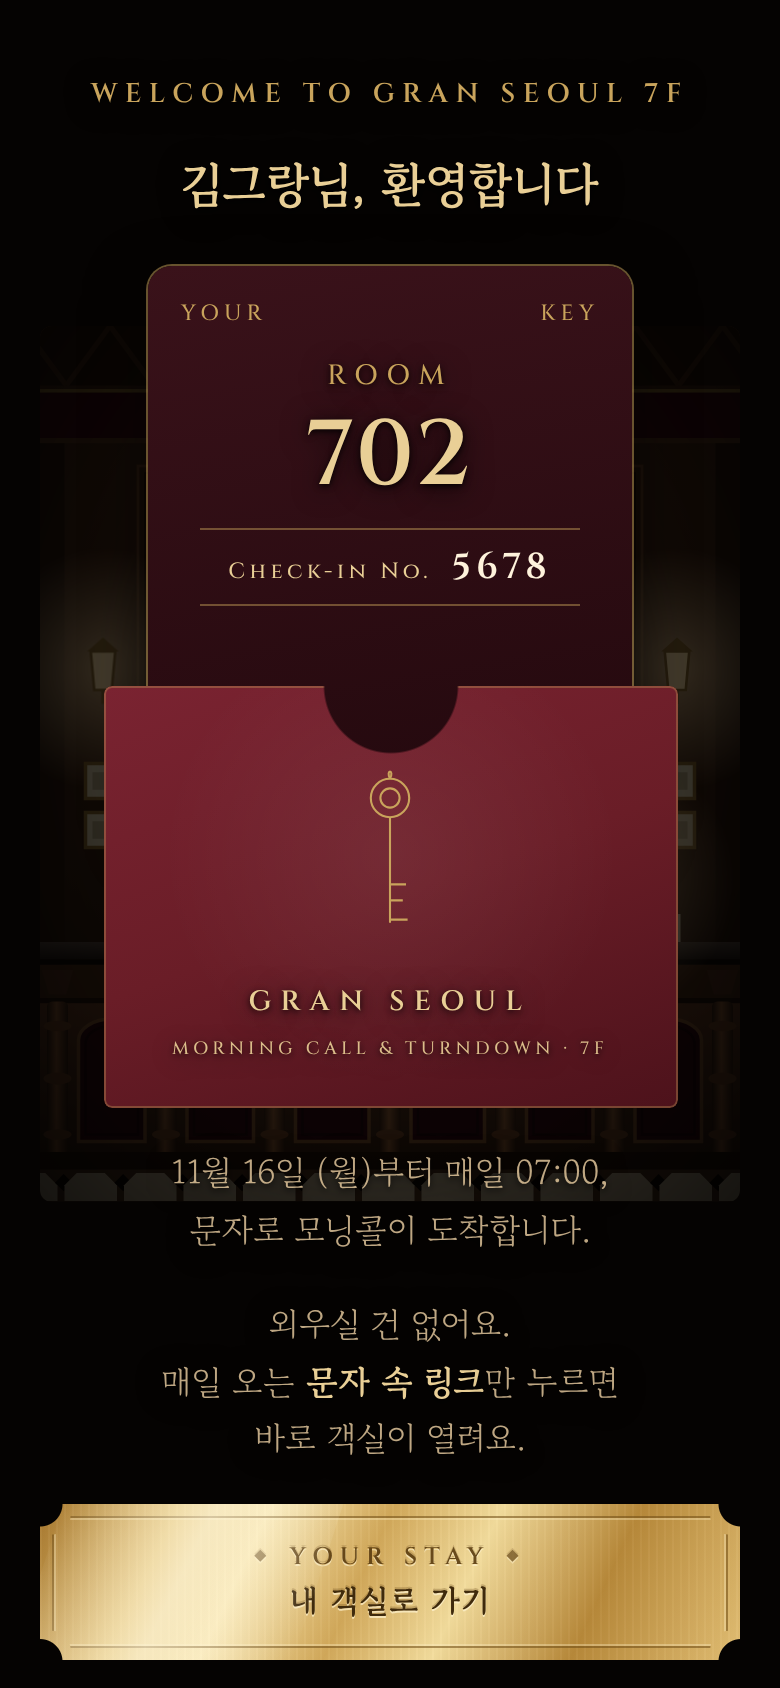
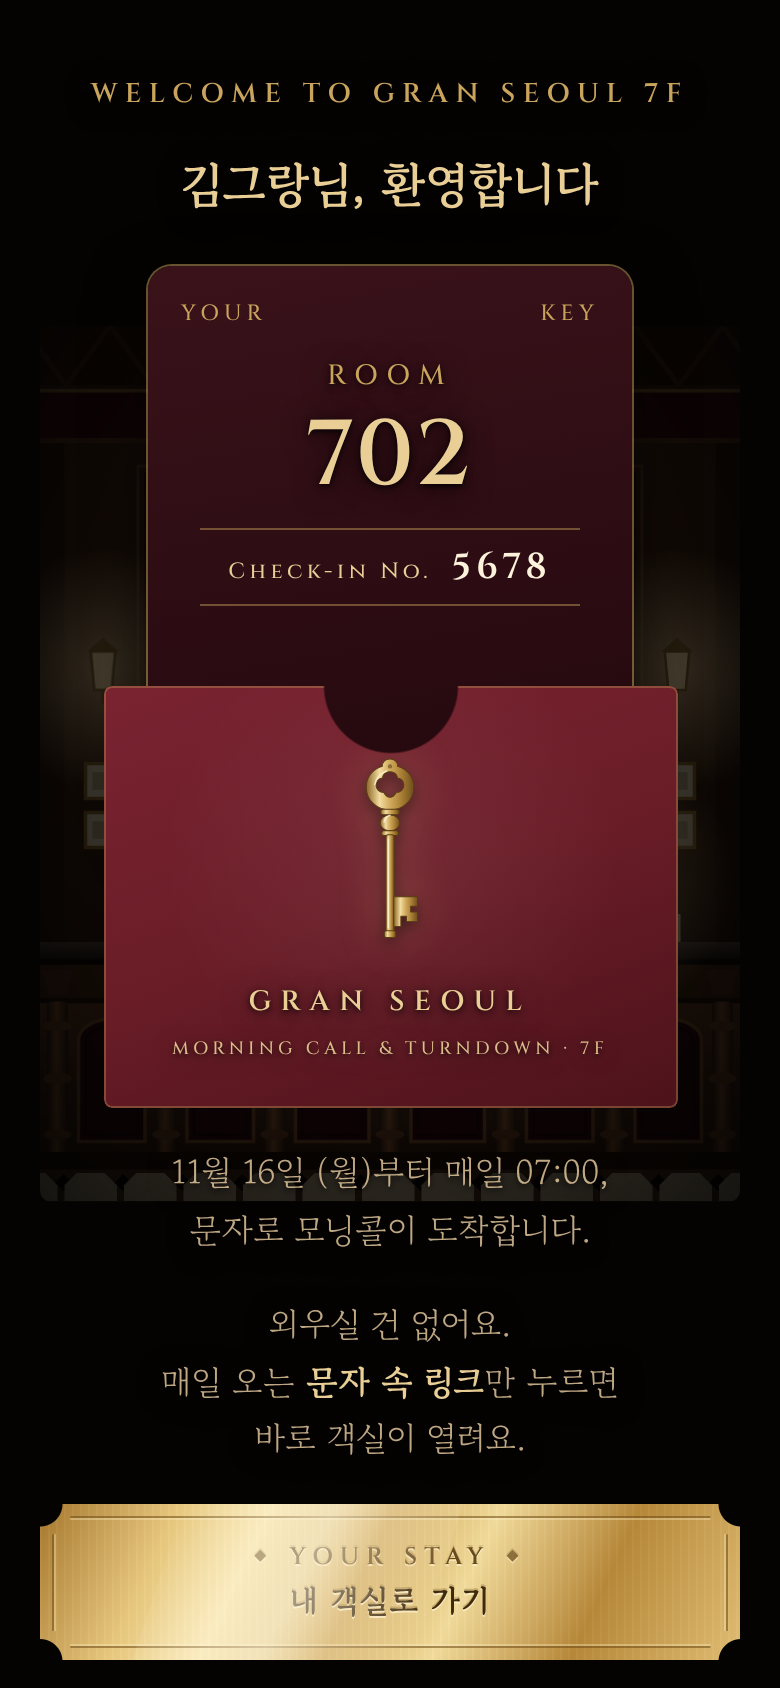
Key card sleeve: detailed brass skeleton key
Claude-Session: https://claude.ai/code/session_011z6wvs2Gb5um8vyCmLK585

Changed region(s): [[0.0615, 0.8934, 0.3077, 0.9858], [0.3077, 0.8934, 0.5538, 0.9858], [0.4615, 0.4313, 0.5538, 0.5545]]

diff --git a/index.html b/index.html
@@ -241,7 +241,7 @@ input:focus,select:focus{outline:none;border-bottom:2px solid var(--burgundy)}
   box-shadow:0 14px 34px rgba(0,0,0,.55),inset 0 0 0 1px rgba(201,164,92,.35);
   -webkit-mask:radial-gradient(circle 34px at 50% 0,transparent 33px,#000 34px);mask:radial-gradient(circle 34px at 50% 0,transparent 33px,#000 34px);
   display:flex;flex-direction:column;align-items:center;justify-content:flex-end;padding:0 0 22px}
-.sleeve svg{width:44px;height:96px;stroke:var(--brass);fill:none;stroke-width:1.3;margin-bottom:10px}
+.sleeve svg{width:46px;height:102px;margin-bottom:10px;overflow:visible;filter:drop-shadow(0 3px 4px rgba(0,0,0,.45)) drop-shadow(0 0 10px rgba(255,210,140,.25))}
 .sleeve .brand{font-family:var(--en);letter-spacing:.34em;font-size:14px;font-weight:600}
 .sleeve .tagline{font-family:var(--en);letter-spacing:.24em;font-size:9px;opacity:.9;margin-top:4px}
 
@@ -487,7 +487,25 @@ body.velvet{background:repeating-linear-gradient(90deg,#4a1219 0 14px,#5c1820 26
         <div class="kc-checkin"><span>Check-in No.</span><b id="wCheckin"></b></div>
       </div>
       <div class="sleeve">
-        <svg viewBox="0 0 54 120"><circle cx="27" cy="20" r="12"/><circle cx="27" cy="20" r="6"/><path d="M27 32v66M27 74h10M27 84h8M27 96h11"/><path d="M27 8c-3-6 3-6 0 0"/></svg>
+        <svg viewBox="0 0 54 120" aria-hidden="true"><defs>
+          <linearGradient id="kg" x1="0" x2="1"><stop offset="0" stop-color="#8a6526"/><stop offset=".28" stop-color="#f3dca0"/><stop offset=".5" stop-color="#d1aa5c"/><stop offset=".75" stop-color="#a77d33"/><stop offset="1" stop-color="#6e4e1c"/></linearGradient>
+          <linearGradient id="kv" x1="0" y1="0" x2="0" y2="1"><stop offset="0" stop-color="#f6e2a8"/><stop offset="1" stop-color="#a77d33"/></linearGradient></defs>
+          <g fill="url(#kg)" stroke="#5a3e14" stroke-width=".6" stroke-linejoin="round">
+            <!-- 손잡이: 둥근 고리 + 위쪽 작은 고리, 가운데 클로버 모양 구멍 -->
+            <path fill-rule="evenodd" d="M27 3c3 0 4.5 2 4.5 4.2 6 1.8 9.5 6.6 9.5 12.3 0 7.6-6.3 13.5-14 13.5s-14-5.9-14-13.5c0-5.7 3.5-10.5 9.5-12.3C22.5 5 24 3 27 3zM27 10.5c-2.6 0-4.4 1.6-4.4 3.6-2.3.3-3.8 2.1-3.8 4.2 0 2.5 2 4.4 4.6 4.4.9 1.8 2 2.8 3.6 2.8s2.7-1 3.6-2.8c2.6 0 4.6-1.9 4.6-4.4 0-2.1-1.5-3.9-3.8-4.2 0-2-1.8-3.6-4.4-3.6z"/>
+            <!-- 목: 링 · 구슬 · 링 -->
+            <rect x="21.5" y="32.5" width="11" height="3.2" rx="1.4"/>
+            <ellipse cx="27" cy="40.5" rx="5.8" ry="4.6"/>
+            <rect x="22" y="45.2" width="10" height="2.8" rx="1.2"/>
+            <!-- 몸통 -->
+            <rect x="24.6" y="47.5" width="4.8" height="58" rx="1.2"/>
+            <!-- 이빨(비트) -->
+            <path d="M29.2 84h14v5.5h-4v3.5h4v5.5h-6.5v-3h-3.3v6h-4.2z"/>
+            <rect x="23.6" y="104" width="6.8" height="4" rx="1.2"/>
+          </g>
+          <path d="M26 50v52M23.5 40q1-3.5 3.5-4M18 18q1.5-6 7-8" stroke="#fff6dc" stroke-width=".9" fill="none" stroke-linecap="round" opacity=".75"/>
+          <circle cx="27" cy="7.3" r="1.3" fill="#5a3e14" opacity=".55"/>
+        </svg>
         <p class="brand">GRAN SEOUL</p>
         <p class="tagline">MORNING CALL &amp; TURNDOWN · 7F</p>
       </div>
